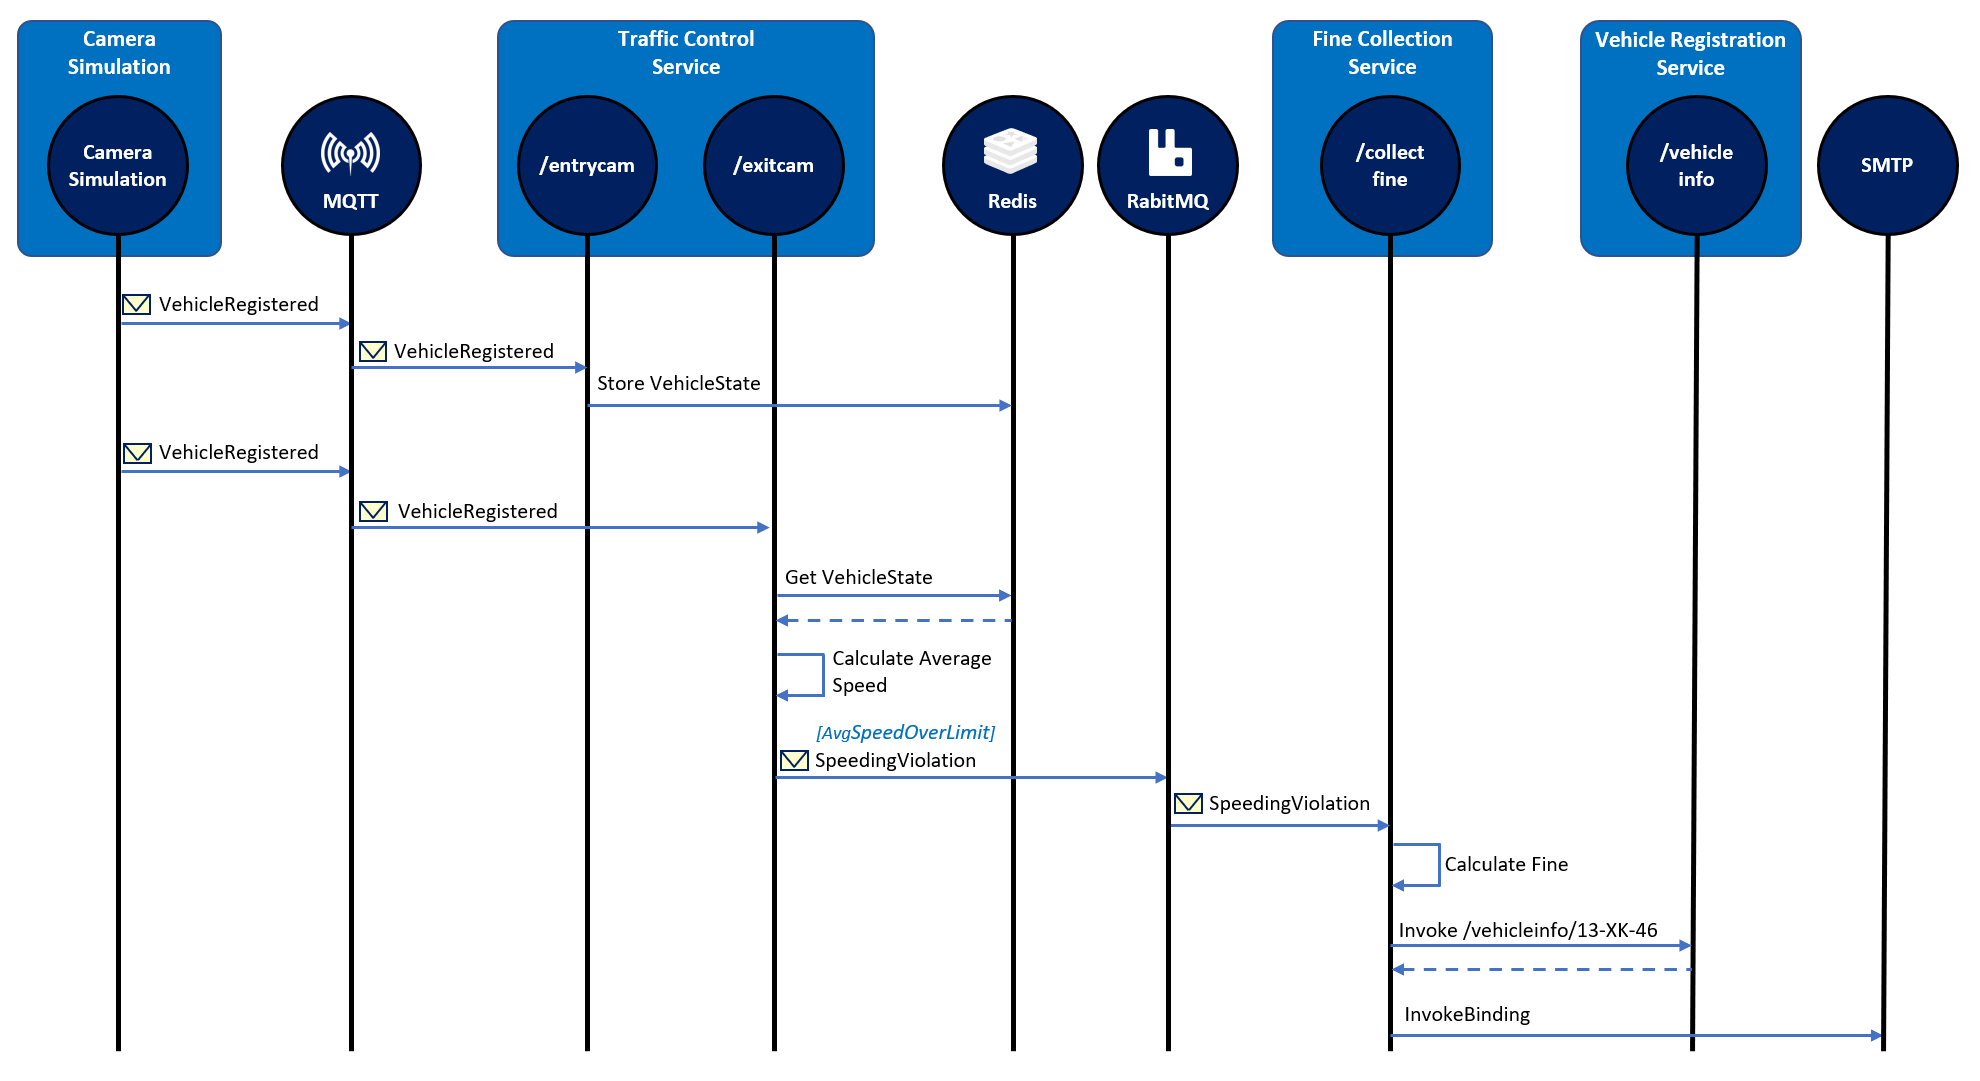
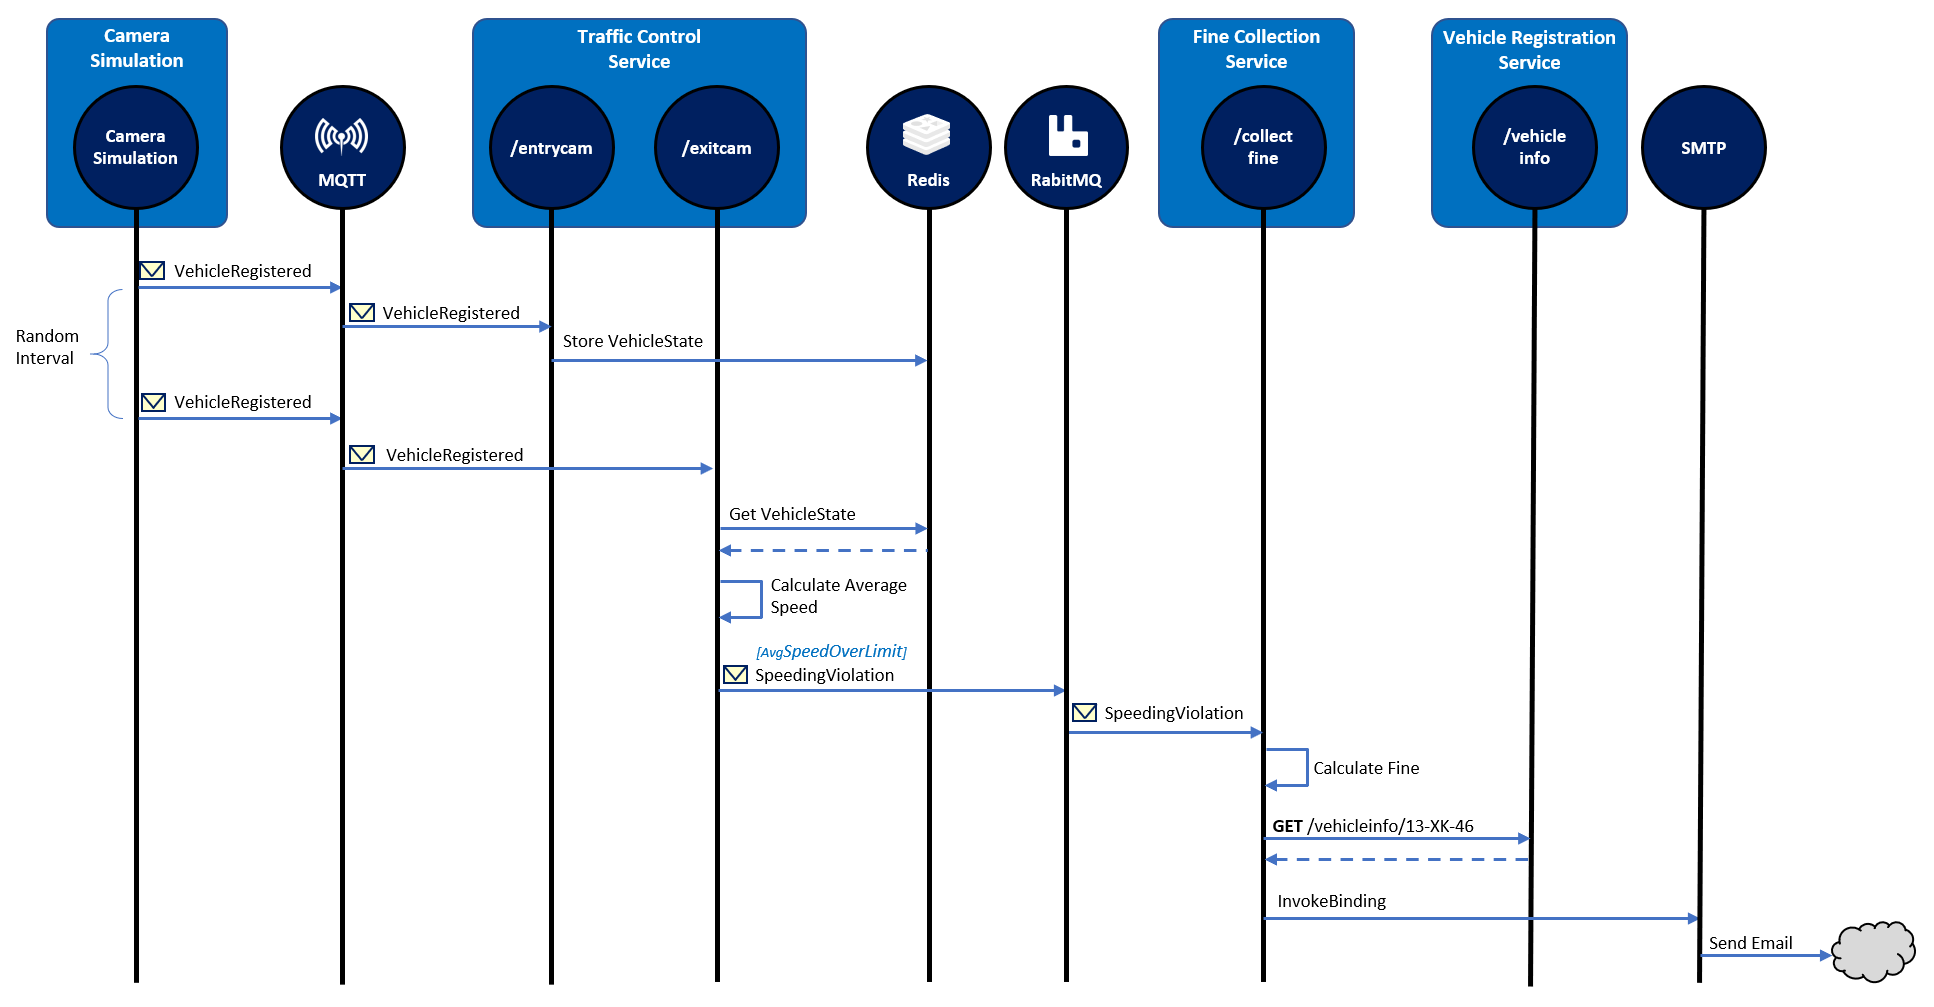
Update assignment 1

diff --git a/README.md b/README.md
@@ -1,22 +1,18 @@
 # Dapr hands-on
 
-This repository contains several hands-on assignments that will introduce you to Dapr. You will start with a simple ASP.NET Core application that contains a number of services. In each assignment, you will change a part of the application so it works with Dapr (or "rub some Dapr on it" as Donovan Brown would say). The Dapr features you will be working with are:
+This repository contains several hands-on assignments that will introduce you to Dapr. You will start with a simple ASP.NET Core application that contains a number of services. In each assignment, you will change a part of the application so it works with Dapr (or "rub some Dapr on it" as Donovan Brown would say). The Dapr building blocks you will be working with are:
 
 - Service invocation
 - State-management
 - Publish / Subscribe
 - Bindings
-- Secrets
+- Secrets management
 
-For the assignments, you will be using Dapr in stand-alone mode. As a stretch goal, we added a last assignment that will ask you to run the Dapr application on Kubernetes.
+You will be using Dapr in self-hosted mode. 
 
 ## The domain
 
-For the assignments you will be working with a speeding-camera setup as can be found on several Dutch highways. Over the entire length of a certain stretch of highway, the average speed of a vehicle is measured and if it is above the speeding limit on this highway, the driver of the vehicle receives a speeding ticket.
-
-### Overview
-
-This is an overview of the fictitious setup you're simulating:
+For the assignments you will be working with a speeding-camera setup as can be found on several Dutch highways. This is an overview of the fictitious setup you're simulating:
 
 ![Speeding cameras](img/speed-trap-overview.png)
 
@@ -34,18 +30,18 @@ The `src` folder in the repo contains the starting-point for the workshop. It co
 
 - The **Camera Simulation** is a .NET Core console application that will simulate passing cars.
 - The **Traffic Control Service** is an ASP.NET Core WebAPI application that offers 2 endpoints: `/entrycam` and `/exitcam`.
-- The **Fine Collection Service** is an ASP.NET Core WebAPI application that offers 1 endpoint: `/collectfine` for for collecting fines.
-- The **Vehicle Registration Service** is an ASP.NET Core WebAPI application that offers 1 endpoint: `/getvehicleinfo/{license-number}` for getting the vehicle- and owner-information of speeding vehicle.
+- The **Fine Collection Service** is an ASP.NET Core WebAPI application that offers 1 endpoint: `/collectfine` for collecting fines.
+- The **Vehicle Registration Service** is an ASP.NET Core WebAPI application that offers 1 endpoint: `/getvehicleinfo/{license-number}` for getting the vehicle- and owner-information of a vehicle.
 
 The way the simulation works is depicted in the sequence diagram below:
 
 <img src="img/sequence.png" alt="Sequence diagram" style="zoom:67%;" />
 
 1. The Camera Simulation generates a random license-number and sends a *VehicleRegistered* message (containing this license-number, a random entry-lane (1-3) and the timestamp) to the `/entrycam` endpoint of the TrafficControlService.
-1. The TrafficControlService stores the VehicleState (license-number and entry-timestamp).
+1. The TrafficControlService stores the *VehicleState* (license-number and entry-timestamp).
 1. After some random interval, the Camera Simulation sends a *VehicleRegistered* message to the `/exitcam` endpoint of the TrafficControlService (containing the license-number generated in step 1, a random exit-lane (1-3) and the exit timestamp).
-1. The TrafficControlService retrieves the VehicleState that was stored at vehicle entry.
-1. The TrafficControlService calculates the average speed of the vehicle using the entry- and exit-timestamp.
+1. The TrafficControlService retrieves the *VehicleState* that was stored at vehicle entry.
+1. The TrafficControlService calculates the average speed of the vehicle using the entry- and exit-timestamp. It also stores the *VehicleState* with the exit timestamp for audit purposes, but this is left out of the sequence diagram for clarity.
 1. If the average speed is above the speed-limit, the TrafficControlService calls the `/collectfine` endpoint of the FineCollectionService. The request payload will be a *SpeedingViolation* containing the license-number of the vehicle, the identifier of the road, the speeding-violation in KMh and the timestamp of the violation.
 1. The FineCollectionService calculates the fine for the speeding-violation.
 1. The FineCollectionSerivice calls the `/vehicleinfo/{license-number}` endpoint of the VehicleRegistrationService with the license-number of the speeding vehicle to retrieve its vehicle- and owner-information.
@@ -60,15 +56,15 @@ After completing all the assignments, the architecture has been changed to work 
 <img src="img/dapr-setup.png" alt="Dapr setup" style="zoom:67%;" />
 
 1. For doing request/response type communication between the FineCollectionService and the VehicleRegistrationService, the **service invocation** building-block is used.
-1. For communicating messages, the **publish and subscribe** building-block is used. RabbitMQ is used as message broker.
+1. For sending speeding violations to the FineCollectionService, the **publish and subscribe** building-block is used. RabbitMQ is used as message broker.
 1. For storing the state of a vehicle, the **state management** building-block is used. Redis is used as state store.
 1. Fines are sent to the owner of a speeding vehicle by email. For sending the email, the Dapr SMTP **output binding** is used.
-1. A Dapr **input binding** for MQTT is used to send simulated car info to the TrafficControlService. Mosquitto is used as MQTT broker.
-1. The FineCollectionService needs credentials for connecting to the smtp server. It uses the **secrets management** building block with the local file component to get the credentials.
+1. The Dapr **input binding** for MQTT is used to send simulated car info to the TrafficControlService. Mosquitto is used as MQTT broker.
+1. The FineCollectionService needs credentials for connecting to the smtp server and a license-key for a fine calculator component. It uses the **secrets management** building block with the local file component to get the credentials and the license-key.
 
 The sequence diagram below shows how the solution will work with Dapr:
 
-<img src="../dapr-traffic-control/img/sequence-dapr.png" alt="Sequence diagram with Dapr" style="zoom:67%;" />
+<img src="img/sequence-dapr.png" alt="Sequence diagram with Dapr" style="zoom:67%;" />
 
 > If during the workshop you are lost on what the end result of an assignment should be, come back to this README to see the end result.
 
@@ -78,11 +74,11 @@ The sequence diagram below shows how the solution will work with Dapr:
 
 Make sure you have the following prerequisites installed on your machine:
 
+- Git ([download](https://git-scm.com/))
 - .NET 5 SDK ([download](https://dotnet.microsoft.com/download/dotnet/5.0))
 - Visual Studio Code ([download](https://code.visualstudio.com/download)) with at least the following extensions installed:
   - [C#](https://marketplace.visualstudio.com/items?itemName=ms-dotnettools.csharp)
   - [REST Client](https://marketplace.visualstudio.com/items?itemName=humao.rest-client)
-- Git ([download](https://git-scm.com/))
 - Docker for desktop ([download](https://www.docker.com/products/docker-desktop))
 - Dapr CLI and Dapr runtime ([instructions](https://docs.dapr.io/getting-started/install-dapr-selfhost/))
 
@@ -101,9 +97,13 @@ The workshop has been tested with the following versions:
 
 Every assignment is contained in a separate folder in this repo. Each folder contains the description of the assignment that you can follow.
 
-The `src` folder in the repo contains the starting-point for the workshop. It contains a version of the services that use plain HTTP communication and stores state in memory. With each assignment of the workshop, you will add a Dapr building-block. 
+The `src` folder in the repo contains the starting-point for the workshop. It contains a version of the services that use plain HTTP communication and stores state in memory. With each assignment of the workshop, you will add a Dapr building-block to this solution. 
 
 Every description of an assignment (accept the first one) contains two parts with each a certain approach to executing the assignment: a **DIY** part and a **step-by-step** part. The DIY part just states the outcome you need to achieve and no further instructions. It's entirely up to you to achieve the goals with the help of the Dapr documentation. The step-by-step part describes exactly what you need to change in the application step-by-step. It's up to you to pick an approach. If you pick the DIY approach and get stuck, you can always go to the step-by-step approach for some help.
+
+#### Integrated terminal
+
+During the workshop, you should be working in 1 instance of VS Code. You will use the integrated terminal in VS Code extensively. All terminal commands have been tested on a Windows machine with the integrated Powershell terminal in VS Code. If you have any issues with the commands on Linux or Mac, please create an issue or a PR to add the appropriate command.
 
 #### Prevent port collisions
 
@@ -125,7 +125,7 @@ The ports can be specified on the command-line when starting a service with the 
 
 #### Get started
 
-Now it's time for you to get your hands dirty and start with the first assignment started:
+Now it's time for you to get your hands dirty and start with the first assignment:
 
 1. Clone the Github repository to a local folder on your machine:
 
@@ -133,5 +133,7 @@ Now it's time for you to get your hands dirty and start with the first assignmen
    git clone https://github.com/EdwinVW/dapr-workshop.git
    ```
 
-2. Go to [assignment 1](Assignment01/README.md).
+2. Before starting with the assignments, I suggest you check-out the code of the different services. You can open the `src` folder in this repo in VS Code. All folders used in the assignments are specified relative to the root of the folder where you have cloned the dapr-workshop repository.
+
+3. Go to [assignment 1](Assignment01/README.md).
 

diff --git a/Assignment01/README.md b/Assignment01/README.md
@@ -2,76 +2,106 @@
 
 In this assignment, you're going to run the application to make sure everything works correctly.
 
-> Before executing this assignment, I suggest you check-out the code of the different services. Uou can open the `src` folder in this repo in VS Code.
-
 ## Step 1. Run the VehicleRegistration service
 
-1. Open a new terminal window in VS Code.
+1. Open the `src` folder in VS Code.
 
-   > You can do this by clicking on the `+` button in the Terminal Window title-bar or by using the hotkey ``Ctrl-Shift-` ``.
+2. Open the terminal window in VS Code.
 
-2. Go to the folder `src/VehicleRegistrationService`.
+   > You can do this by using the hotkey ``Ctrl-` ``.
 
-3. Start the service using `dotnet run`.
+3. Make sure the current folder is `src/VehicleRegistrationService`.
 
-> If you receive an error here, please double-check whether or not you have installed all the [prerequisites](..\README.md#Prerequisites) ) for the workshop!
+4. Start the service using `dotnet run`.
 
-Now you can test whether you can call the Government service's Web-API. You can do this using a browser, CURL or some other HTTP client. But there is a convenient way of testing RESTful APIs directly from VS Code:
+> If you receive an error here, please double-check whether or not you have installed all the [prerequisites](..\README.md#Prerequisites) for the workshop!
 
-1. Open the `test.http` file in the project folder in VS Code. The request in this file simulates retrieving the vehicle- and owner information for a certain license-number.
+Now you can test whether you can call the VehicleRegistrationService. You can do this using a browser, CURL or some other HTTP client. But there is a convenient way of testing RESTful APIs directly from VS Code (this uses the REST Client extension VS Code):
 
-1. Click on `Execute request` in the file to send a request to the API. The result will be shown in a separate window on the right:
+1. Open the file `src/VehicleRegistrationService/test.http` in VS Code. The request in this file simulates retrieving the vehicle- and owner information for a certain license-number.
+
+1. Click on `Execute request` in the file to send a request to the API:
 
    ![REST client](img/rest-client.png)
 
-1. Check the logging in the command-shell window. It should look like this:
+1. The response of the request will be shown in a separate window on the right. It should be a response with HTTP status code `200 OK` and the body should contain some random vehicle and owner-information:
+
+   ```json
+   HTTP/1.1 200 OK
+   Connection: close
+   Date: Mon, 01 Mar 2021 07:15:55 GMT
+   Content-Type: application/json; charset=utf-8
+   Server: Kestrel
+   Transfer-Encoding: chunked
+   
+   {
+     "vehicleId": "KZ-49-VX",
+     "brand": "Toyota",
+     "model": "Rav 4",
+     "ownerName": "Angelena Fairbairn",
+     "ownerEmail": "angelena.fairbairn@outlook.com"
+   }
+   ```
+   
+1. Check the logging in the terminal window. It should look like this:
 
    ![VehicleRegistrationService logging](img/logging-vehicleregistrationservice.png)
 
 ## Step 2. Run the FineCollection service
 
-1. Make sure the VehicleRegistrationService service is running (see step 1).
-1. Open a new terminal window in VS Code.
-1. Go to the folder `src/FineCollectionService`.
+1. Make sure the VehicleRegistrationService service is running (result of step 1).
+
+1. Open a **new** terminal window in VS Code.
+
+   > You can do this by using the hotkey ``Ctrl-Shift-` `` or clicking on the `+` button in the terminal window title bar:
+   > ![](img/terminal-new.png)
+
+1. Make sure the current folder is `src/FineCollectionService`.
+
 1. Start the service using `dotnet run`.
 
-1. Open the `test.http` file in the project folder in VS Code. The request in this file simulates sending a detected speeding-violation to the FineCollectionService.
+1. Open the file `src/FineCollectionService/test.http` in VS Code. The request in this file simulates sending a detected speeding-violation to the FineCollectionService.
 
-1. Click on `Execute request` in the file to send a request to the API. The result will be shown in a separate window on the right.
+1. Click on `Execute request` in the file to send a request to the API. 
 
-1. Check the logging in the command-shell window. It should look like this:
+1. The response of the request will be shown in a separate window on the right. It should be a response with HTTP status code `200 OK` and no body.
+
+1. Check the logging in the terminal window. It should look like this:
 
    ![FineCollectionService logging](img/logging-finecollectionservice.png)
 
 ## Step 3. Run the TrafficControl service
 
-1. Make sure the VehicleRegistrationService and FineCollectionService are running (see step 1 and 2).
+1. Make sure the VehicleRegistrationService and FineCollectionService are running (results of step 1 and 2).
 
-1. Open a new terminal window in VS Code.
-
-1. Go to the folder `src/TrafficControlService`.
+1. Open a **new** terminal window in VS Code and make sure the current folder is `src/TrafficControlService`.
 
 1. Start the service using `dotnet run`.
 
 1. Open the `test.http` file in the project folder in VS Code.
 
-1. Click on `Execute request` for both requests in the file to send two requests to the API. The result will be shown in a separate window on the right.
+1. Click on `Execute request` for both requests in the file to send two requests to the API. 
 
-1. Check the logging in the command-shell window. It should look like this:
+1. The response of the requests will be shown in a separate window on the right. Both requests should yield a response with HTTP status code `200 OK` and no body.
+
+1. Check the logging in the terminal window. It should look like this:
 
    ![TrafficControlService logging](img/logging-trafficcontrolservice.png)
 
-   If you now also inspect the logging of the FineCollectionService (select the other Terminal in the dropdown on the title-bar of the Terminal Window), you should see the speeding-violation being logged:
+1. Also inspect the logging of the FineCollectionService. 
 
+   > You can do this by selecting another terminal window using the dropdown in the title-bar of the terminal window:
+   ![](img/terminal-dropdown.png)
+
+   You should see the speeding-violation being handled by the FineCollectionService:
+   
    ![FineCollectionService logging](img/logging-finecollectionservice2.png)
 
 ## Step 3. Run the simulation
 
 You've tested the APIs directly by using a REST client. Now you're going to run the simulation that actually simulates cars driving on the highway. The simulation will simulate 3 entry- and exit-cameras (one for each lane).
 
-1. Open a new terminal window in VS Code.
-
-2. Go to the folder `src/Simulation`.
+1. Open a new terminal window in VS Code and make sure the current folder is `src/Simulation`.
 
 3. Start the service using `dotnet run`.
 
@@ -86,5 +116,8 @@ Now we know the application runs correctly. It's time to start adding Dapr to th
 ## Next assignment
 
 Make sure you stop all running processes and close all the terminal windows in VS Code before proceeding to the next assignment.
+
+> You can quickly close a terminal window by clicking on the trashcan icon in its title bar:
+> ![](img/terminal-trashcan.png)
 
 Go to [assignment 2](../Assignment02/README.md).
